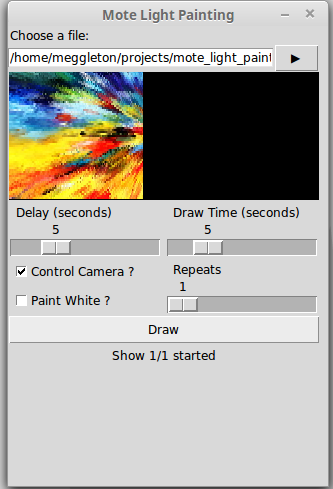
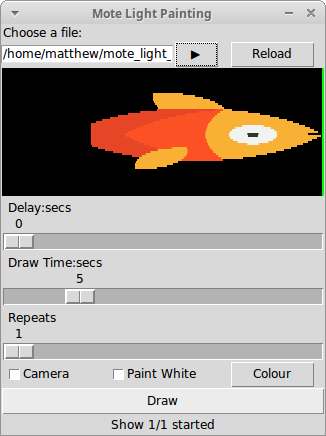
Documentation updates

diff --git a/index.html b/index.html
@@ -1,0 +1,71 @@
+<h1>
+<a id="user-content-mote-light-painting" class="anchor" href="#mote-light-painting" aria-hidden="true"><span aria-hidden="true" class="octicon octicon-link"></span></a>Mote Light Painting</h1>
+<p>Using pimoroni motes to lightpaint bitmap images.</p>
+<p><a href="demos/Squigy%20Thingy.JPG" target="_blank"><img src="demos/Squigy%20Thingy.JPG" alt="Squigy Thingy" style="max-width:100%;"></a></p>
+<p>Inspired by</p>
+<ul>
+<li>the <a href="http://thepixelstick.com/" rel="nofollow">Pixel Stick</a> which is around $350</li>
+<li>the fact I have a full <a href="https://shop.pimoroni.com/products/mote" rel="nofollow">Mote</a> kit that <a href="https://shop.pimoroni.com/" rel="nofollow">Pimoroni</a> very kindly gave me for my 40th birthday and Motes are "Sticks of Pixels"</li>
+</ul>
+<p><a href="demos/Light%20Arch.jpg" target="_blank"><img src="demos/Light%20Arch.jpg" alt="Light Arch" style="max-width:100%;"></a></p>
+<h2>
+<a id="user-content-requirements" class="anchor" href="#requirements" aria-hidden="true"><span aria-hidden="true" class="octicon octicon-link"></span></a>Requirements</h2>
+<h3>
+<a id="user-content-software" class="anchor" href="#software" aria-hidden="true"><span aria-hidden="true" class="octicon octicon-link"></span></a>Software</h3>
+<div class="highlight highlight-source-shell"><pre>sudo aptitude install gphoto2 libgphoto2-dev git python-pip python-tk python-gtk2
+
+sudo pip install webcolors pillow pygubu mote gphoto2
+
+git clone https://github.com/EduMake/mote_light_painting.git
+
+<span class="pl-c1">cd</span> mote_light_painting</pre></div>
+<h3>
+<a id="user-content-hardware" class="anchor" href="#hardware" aria-hidden="true"><span aria-hidden="true" class="octicon octicon-link"></span></a>Hardware</h3>
+<p>So far being built for :-</p>
+<ul>
+<li>Linux Machines
+<ul>
+<li>Ideally Raspberry Pi 3 but I'm running it on my Linux Mint Laptop</li>
+</ul>
+</li>
+<li>Mote <a href="https://shop.pimoroni.com/products/mote" rel="nofollow">https://shop.pimoroni.com/products/mote</a>
+</li>
+<li>Canon EOS 1200D (optional) - Should work with most EOS models and most cameras gphoto2 can control. Nothing clever just triggering shutter release with the settings you have set on the camera.</li>
+</ul>
+<p><a href="demos/Flag%20and%20Flats.jpg" target="_blank"><img src="demos/Flag%20and%20Flats.jpg" alt="Flag and Flats" style="max-width:100%;"></a></p>
+<h3>
+<a id="user-content-other-hardware" class="anchor" href="#other-hardware" aria-hidden="true"><span aria-hidden="true" class="octicon octicon-link"></span></a>Other Hardware</h3>
+<ul>
+<li>Perspex stick, cut from  <a href="mote_light_painting_stick.svg">this svg file</a>
+</li>
+<li>Screws to attach Mote sticks to the stick</li>
+<li>If using Raspberry Pi - USB Battery Pack</li>
+</ul>
+<h2>
+<a id="user-content-usage" class="anchor" href="#usage" aria-hidden="true"><span aria-hidden="true" class="octicon octicon-link"></span></a>Usage</h2>
+<p>If you are going to attach a Camera by USB make sure you have a "LightPaintings" folder in the same folder as the mote_light_painting folder.</p>
+<div class="highlight highlight-source-shell"><pre>sudo ./mote_light_painting.py</pre></div>
+<p><a href="demos/Screenshot.png" target="_blank"><img src="demos/Screenshot.png" alt="Screenshot" style="max-width:100%;"></a></p>
+<ul>
+<li>Choose a file (there is a nice default spectrum if you are just testing)</li>
+<li>The Graph shows your image as 64 pixels (the height of a full set of motes) over the draw time (so it will usually look stretched, don't worry its a graph)</li>
+<li>We often end up needing to ignore pure white pixels, if you need them painting check the 'Paint White ?' box. At the moment you need to reload the file.</li>
+<li>Ticking 'Control Camera' will try to capture a photo from you USB / PTP camera via gphoto2 (there is no error checking here at the mo, so if it freezes start again).</li>
+<li>"Delay Time" is self explanatory.</li>
+<li>"Draw Time" is how long it will take for your image to be drawn and will depend on the exposure time you are using.</li>
+<li>"Repeats" set how many times the Delay/Draw cycle takes place. This should allow for nice light painted / stop motion effects.</li>
+<li>"Colour" lets you choose a single colour to paint with.</li>
+<li>The "Draw" button :-
+<ul>
+<li>Blanks the Graph</li>
+<li>Waits for any delay, drawing the progress on the Graph</li>
+<li>Starts the camera's shot if 'Control Camera' is selected</li>
+<li>Starts changing the lights.</li>
+<li>Move the lights across the field of view of the camera. The Graph will redraw to give you a clue how far along you are.</li>
+<li>If you have an animated gif file selected it will try to load the next frame.</li>
+<li>The Draw process "Repeats" until it should end</li>
+<li>On the last repeat, if 'Control Camera' is selected the image should pop up in a photo viewer</li>
+</ul>
+</li>
+</ul>
+

diff --git a/README.md b/README.md
@@ -1,11 +1,10 @@
-# mote_light_painting
-Using pimoroni motes to light paint bitmap images.
+# Mote Light Painting
+Using pimoroni motes to lightpaint bitmap images.
 
 ![Squigy Thingy](demos/Squigy%20Thingy.JPG)
 
 Inspired by 
 
-* my son who has CP and is making a great job of light painting even without the tools I said I'd build for him
 * the [Pixel Stick](http://thepixelstick.com/) which is around $350
 * the fact I have a full [Mote](https://shop.pimoroni.com/products/mote) kit that [Pimoroni](https://shop.pimoroni.com/) very kindly gave me for my 40th birthday and Motes are "Sticks of Pixels"
 
@@ -21,14 +20,18 @@ Inspired by
 sudo aptitude install gphoto2 libgphoto2-dev git python-pip python-tk python-gtk2
 
 sudo pip install webcolors pillow pygubu mote gphoto2
+
+git clone https://github.com/EduMake/mote_light_painting.git
+
+cd mote_light_painting
 ```
 
 ### Hardware
 
 So far being built for :-
 
-* Raspberry Pi 3 but I'm running it on my Linux Mint Laptop
-* Screen https://shop.pimoroni.com/collections/raspberry-pi/products/pitft-plus-480x320-3-5-tft-touchscreen-for-raspberry-pi-pi-2-and-model-a-b
+* Linux Machines
+	* Ideally Raspberry Pi 3 but I'm running it on my Linux Mint Laptop
 * Mote https://shop.pimoroni.com/products/mote
 * Canon EOS 1200D (optional) - Should work with most EOS models and most cameras gphoto2 can control. Nothing clever just triggering shutter release with the settings you have set on the camera.
 
@@ -37,17 +40,16 @@ So far being built for :-
 
 ### Other Hardware
 
-* Wooden Stick
+* Perspex stick, cut from  [this svg file](mote_light_painting_stick.svg)
 * Screws to attach Mote sticks to the stick
-* USB Battery Pack
-* Gaffer Tape (see ![flow chart](https://c1.staticflickr.com/9/8160/7214525854_733237dd83_z.jpg))
+* If using Raspberry Pi - USB Battery Pack
 
 ## Usage
 
 If you are going to attach a Camera by USB make sure you have a "LightPaintings" folder in the same folder as the mote_light_painting folder.
 
 ```bash
-sudo python mote_light_painting.py
+sudo ./mote_light_painting.py
 ```
 
 ![Screenshot](demos/Screenshot.png)
@@ -56,15 +58,17 @@ sudo python mote_light_painting.py
 * The Graph shows your image as 64 pixels (the height of a full set of motes) over the draw time (so it will usually look stretched, don't worry its a graph) 
 * We often end up needing to ignore pure white pixels, if you need them painting check the 'Paint White ?' box. At the moment you need to reload the file.
 * Ticking 'Control Camera' will try to capture a photo from you USB / PTP camera via gphoto2 (there is no error checking here at the mo, so if it freezes start again).
-* "Delay Time" is self explanatory
-* "Draw Time" is how long it will take for your image to be drawn and will depend on the exposure time you are using
-* "Repeats" set how many times the Delay/Draw cycle takes place. This should allow for nice light painted / stop motion effects
+* "Delay Time" is self explanatory.
+* "Draw Time" is how long it will take for your image to be drawn and will depend on the exposure time you are using.
+* "Repeats" set how many times the Delay/Draw cycle takes place. This should allow for nice light painted / stop motion effects.
+* "Colour" lets you choose a single colour to paint with.
 * The "Draw" button :-
   * Blanks the Graph
   * Waits for any delay, drawing the progress on the Graph
   * Starts the camera's shot if 'Control Camera' is selected 
   * Starts changing the lights. 
   * Move the lights across the field of view of the camera. The Graph will redraw to give you a clue how far along you are.
+  * If you have an animated gif file selected it will try to load the next frame.
   * The Draw process "Repeats" until it should end
   * On the last repeat, if 'Control Camera' is selected the image should pop up in a photo viewer
 
